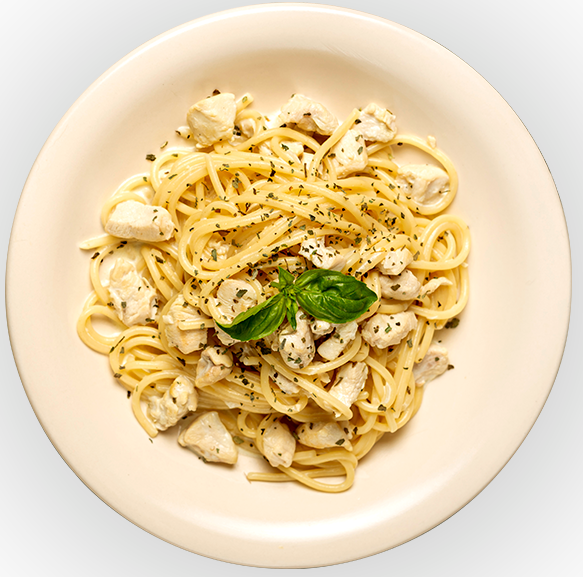
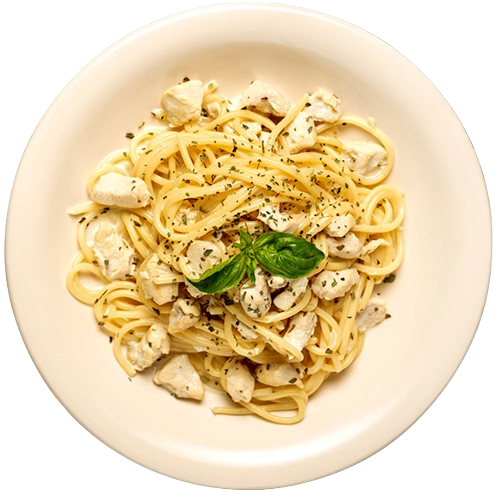
slider section background done

diff --git a/assets/styles/style.scss b/assets/styles/style.scss
@@ -3,7 +3,7 @@
 @import url('https://fonts.googleapis.com/css2?family=Fredericka+the+Great&display=swap');
 
 $yellow: #ffe001;
-$secondary-yellow: #e8e6a9;
+$secondary-yellow: #e0dea4;
 
 * {
     font-family: "Montserrat", sans-serif;
@@ -35,10 +35,11 @@ a {
 
 //TopBar
 .topbar {
-    margin-top: 1rem;
+    padding-top: 1rem;
     display: flex;
     justify-content: space-between;
     align-items: center;
+
 
     .fa-bars {
         display: none;
@@ -54,6 +55,7 @@ a {
         font-size: 15px;
         font-family: Montserrat;
         margin-right: 5%;
+        z-index: 9;
 
         a {
             color: #000;
@@ -66,7 +68,7 @@ a {
             padding-left: 10px;
         }
 
-        ;
+
     }
 
 }
@@ -74,6 +76,7 @@ a {
 //Main-Navbar
 .main-navbar {
     justify-content: end;
+    z-index: 9;
 
     ul {
         list-style: none;
@@ -88,53 +91,86 @@ a {
     }
 
 }
+
 //hero-section
-.hero-section{
-    h1{
+.hero-section {
+    background-color: $yellow;
+    position: relative;
+
+
+
+    img {
+        z-index: 2;
+        position: relative;
+    }
+
+    h1 {
         text-transform: capitalize;
     }
-    span{
+
+    span {
         text-transform: uppercase;
     }
+
+    &::before {
+        position: absolute;
+        content: "";
+        z-index: 1;
+        right: 0;
+        width: 50vw;
+        height: 100%;
+        background-color: $secondary-yellow;
+        clip-path: polygon(53% 0, 100% 0%, 100% 100%, 18% 100%);
+    }
 }
+
 /*Responsive*/
 
 @media (max-width:768px) {
+    header {
+        z-index: 4;
+        background: $yellow;
+        position: relative;
+        height: 70px;
 
-    /*Topbar*/
-    .topbar {
-        height: 50px;
-        display: flex;
-        align-items: center;
+        /*Topbar*/
+        .topbar {
+            height: 50px;
+            display: flex;
+            align-items: center;
 
-        img {
-            width: 30%;
+            img {
+                width: 30%;
+            }
+
+            .call-img {
+                display: none;
+            }
+
+            .fa-bars {
+                margin-top: 3.5%;
+                display: block;
+                z-index: 9;
+            }
         }
 
-        .call-img {
+        /*Navbar*/
+        .main-navbar {
+            float: left;
+            width: 100vw;
+            justify-content: center;
+            padding-top: 7%;
             display: none;
-        }
+            transition: all 5s ease-in-out;
 
-        .fa-bars {
-            margin-top: 3.5%;
-            display: block;
-        }
-    }
+            ul {
+                text-align: center;
+                display: grid;
+                background-color: $yellow;
 
-    /*Navbar*/
-    .main-navbar {
-        float: left;
-        width: 100vw;
-        justify-content: center;
-        padding-top: 7%;
-        display: none;
-        transition: all 5s ease-in-out;
-        ul {
-            text-align: center;
-            display: grid;
-
-            li {
-                margin: 0.5rem 0;
+                li {
+                    margin: 0.5rem 0;
+                }
             }
         }
     }
@@ -169,6 +205,7 @@ a {
         justify-content: center;
         padding-top: 7%;
         transition: all 5s ease-in-out;
+
         ul {
             text-align: center;
             display: grid;

diff --git a/HTML/index.html b/HTML/index.html
@@ -12,34 +12,37 @@
 </head>
 
 <body>
-    <header>
-        <div class="container">
-
-            <!--topbar-->
-            <nav class="topbar">
-                <img src="../assets/images/logo.png" alt="logo" class="img-fluid">
-                <div class="call-img">
-                    <p> express delivery</p>
-                    <a href="tel:180025888">1800 258 888</a>
-                    <img src="../assets/images/iphone.png" alt="iphone" class="img-fluid">
-                </div>
-                <i class="fa fa-bars" onclick="toggleNavbar()"></i>
-            </nav>
-      
-        <!--Navbar-->
-      
-            <nav class="navbar main-navbar navbar-text" id="navbar">
-                <ul>
-                    <li><a href="#">home</a></li>
-                    <li><a href="#">menu</a></li>
-                    <li><a href="#">our story</a></li>
-                    <li><a href="#">contact us</a></li>
-                </ul>
-            </nav>
-        </div>
-    </header>
+  
     <main>
         <section class="hero-section">
+
+            <header>
+                <div class="container">
+        
+                    <!--topbar-->
+                    <nav class="topbar">
+                        <img src="../assets/images/logo.png" alt="logo" class="img-fluid">
+                        <div class="call-img">
+                            <p> express delivery</p>
+                            <a href="tel:180025888">1800 258 888</a>
+                            <img src="../assets/images/iphone.png" alt="iphone" class="img-fluid">
+                        </div>
+                        <i class="fa fa-bars" onclick="toggleNavbar()"></i>
+                    </nav>
+              
+                <!--Navbar-->
+              
+                    <nav class="navbar main-navbar navbar-text" id="navbar">
+                        <ul>
+                            <li><a href="#">home</a></li>
+                            <li><a href="#">menu</a></li>
+                            <li><a href="#">our story</a></li>
+                            <li><a href="#">contact us</a></li>
+                        </ul>
+                    </nav>
+                </div>
+            </header>
+            
             <div class="container">
                 <div class="row">
                     <div class="col-sm-6">

diff --git a/assets/styles/style.css b/assets/styles/style.css
@@ -27,7 +27,7 @@ a {
 }
 
 .topbar {
-  margin-top: 1rem;
+  padding-top: 1rem;
   display: flex;
   justify-content: space-between;
   align-items: center;
@@ -45,6 +45,7 @@ a {
   font-size: 15px;
   font-family: Montserrat;
   margin-right: 5%;
+  z-index: 9;
 }
 .topbar .call-img a {
   color: #000;
@@ -58,6 +59,7 @@ a {
 
 .main-navbar {
   justify-content: end;
+  z-index: 9;
 }
 .main-navbar ul {
   list-style: none;
@@ -69,33 +71,59 @@ a {
   text-transform: uppercase;
 }
 
+.hero-section {
+  background-color: #ffe001;
+  position: relative;
+}
+.hero-section img {
+  z-index: 2;
+  position: relative;
+}
 .hero-section h1 {
   text-transform: capitalize;
 }
 .hero-section span {
   text-transform: uppercase;
 }
+.hero-section::before {
+  position: absolute;
+  content: "";
+  z-index: 1;
+  right: 0;
+  width: 50vw;
+  height: 100%;
+  background-color: #e0dea4;
+  -webkit-clip-path: polygon(53% 0, 100% 0%, 100% 100%, 18% 100%);
+          clip-path: polygon(53% 0, 100% 0%, 100% 100%, 18% 100%);
+}
 
 /*Responsive*/
 @media (max-width: 768px) {
-  /*Topbar*/
-  .topbar {
+  header {
+    z-index: 4;
+    background: #ffe001;
+    position: relative;
+    height: 70px;
+    /*Topbar*/
+    /*Navbar*/
+  }
+  header .topbar {
     height: 50px;
     display: flex;
     align-items: center;
   }
-  .topbar img {
+  header .topbar img {
     width: 30%;
   }
-  .topbar .call-img {
+  header .topbar .call-img {
     display: none;
   }
-  .topbar .fa-bars {
+  header .topbar .fa-bars {
     margin-top: 3.5%;
     display: block;
+    z-index: 9;
   }
-  /*Navbar*/
-  .main-navbar {
+  header .main-navbar {
     float: left;
     width: 100vw;
     justify-content: center;
@@ -103,11 +131,12 @@ a {
     display: none;
     transition: all 5s ease-in-out;
   }
-  .main-navbar ul {
+  header .main-navbar ul {
     text-align: center;
     display: grid;
+    background-color: #ffe001;
   }
-  .main-navbar ul li {
+  header .main-navbar ul li {
     margin: 0.5rem 0;
   }
 }
